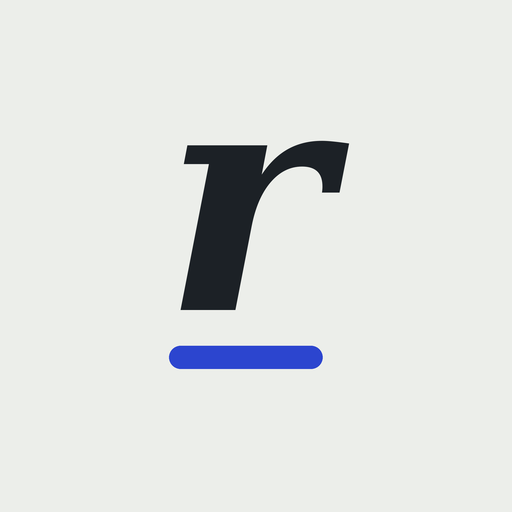
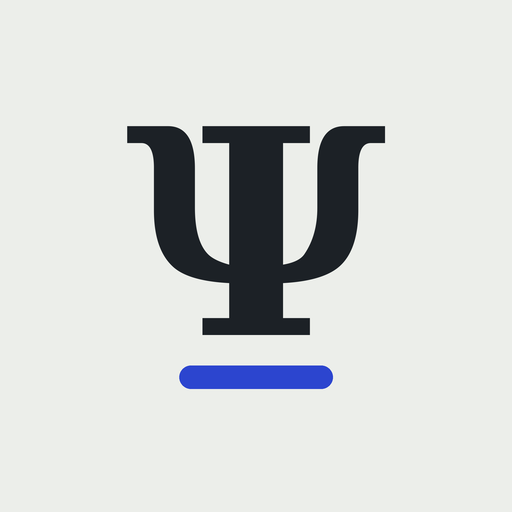
Omdøb til Ψ-reader, ny eksempeltekst og samlet menu
- Navn og ikon: Ψ-reader (Psy-reader)
- Eksempelteksten er skrevet om med Stroop-effekten, den indre stemme
  og tungebrækkere, hjernens forudsigelser (N400) og hvordan en
  sprogmodel læser
- Opvarmning, Historik, Om teknikkerne, Træningsprogram og Credits
  ligger nu i én menu i hjørnet
- Skærmen holdes tændt, mens teksten kører

Claude-Session: https://claude.ai/code/session_01LqUsJRtFhCraftrXDoyALx

Changed region(s): [[0.25, 0.2188, 0.75, 0.7812]]

diff --git a/index.html b/index.html
@@ -1,6 +1,6 @@
 <!doctype html>
 <!--
-  reader – træn hurtiglæsning
+  Ψ-reader (Psy-reader) – træn hurtiglæsning
   Lavet af DAKI2501 og Claude (Anthropic), 2026.
   Freeware: må bruges, kopieres og deles gratis.
   Indeholder pdf.js © Mozilla Foundation, Apache License 2.0 (licensnoten står i pdf.js-koden længere nede).
@@ -16,8 +16,11 @@
 <link rel="apple-touch-icon" href="icons/apple-touch-icon.png">
 <meta name="apple-mobile-web-app-capable" content="yes">
 <meta name="mobile-web-app-capable" content="yes">
-<meta name="apple-mobile-web-app-title" content="reader">
-<title>reader – træn hurtiglæsning</title>
+<meta name="apple-mobile-web-app-title" content="Ψ-reader">
+<meta name="description" content="Psy-reader: træn hurtiglæsning og stream lange tekster. Pacer, fikspunkter, RSVP, jævn rulning, nøgleord, PDF og EPUB. Gratis.">
+<meta property="og:title" content="Ψ-reader – træn hurtiglæsning">
+<meta property="og:description" content="Gratis studieredskab til hurtiglæsning. Læser tekst, PDF og EPUB, også på telefonen.">
+<title>Ψ-reader – træn hurtiglæsning</title>
 <style>
 :root{
   --paper:#ECEEEA; --ink:#1C2126; --muted:#66706B; --faint:#A7AEA9; --rule:#D2D7D1; --panel:#F5F6F3;
@@ -68,7 +71,11 @@ body[data-view=start] #reader,body[data-view=reader] #start{display:none}
 .mark{font:italic 600 23px/1 var(--serif);position:relative;padding-bottom:7px;letter-spacing:.005em}
 .mark::after{content:"";position:absolute;left:.05em;bottom:0;height:3px;width:1.7em;border-radius:2px;background:var(--accent);animation:pen 2.4s cubic-bezier(.5,0,.3,1) .3s 1 both}
 @keyframes pen{from{width:0}to{width:1.7em}}
-.top nav{margin-left:auto;display:flex;gap:4px}
+.menuwrap{margin-left:auto;position:relative}
+.menu{position:absolute;right:0;top:42px;z-index:10;min-width:210px;padding:6px;display:flex;flex-direction:column;background:var(--panel);border-radius:12px;box-shadow:0 18px 50px -18px rgba(0,0,0,.4),0 0 0 1px var(--rule)}
+.menu button{border:0;background:transparent;text-align:left;padding:10px 12px;border-radius:8px;font-size:15px}
+.menu button:hover{background:var(--accent-soft)}
+.menu button:disabled{opacity:.4;cursor:default}
 .intake{width:100%;max-width:860px;margin-top:8vh}
 .intake h1{font:500 clamp(30px,4.4vw,46px)/1.08 var(--serif);margin:0 0 10px;letter-spacing:-.012em}
 .intake .sub{color:var(--muted);margin:0 0 22px;font-size:16px;max-width:52ch}
@@ -285,8 +292,6 @@ dialog::backdrop{background:rgba(18,22,26,.38)}
 .sch-dot{position:absolute;left:50%;top:50%;width:8px;height:8px;margin:-4px;border-radius:50%;background:var(--accent);pointer-events:none;box-shadow:0 0 0 3px var(--panel)}
 
 @media (max-width:560px){
-  .top{flex-wrap:wrap}
-  .top nav{margin-left:-10px;width:100%}
   .intake{margin-top:4vh}
 }
 .toc{list-style:none;margin:10px 0 0;padding:0;max-height:52vh;overflow:auto;border-top:1px solid var(--rule)}
@@ -344,15 +349,20 @@ button,#stage,#rsvp,.progress{touch-action:manipulation}
 <!-- ================= START ================= -->
 <main id="start">
   <header class="top">
-    <div class="mark">reader</div>
-    <nav>
-      <button class="textbtn" data-open="dlgSchulte">Opvarmning</button>
-      <button class="textbtn" data-open="dlgHistory">Historik</button>
-      <button class="textbtn" data-open="dlgHelp">Om teknikkerne</button>
-    </nav>
+    <div class="mark">Ψ-reader</div>
+    <div class="menuwrap">
+      <button class="icon" id="menuBtn" aria-haspopup="true" aria-expanded="false" aria-controls="menu" aria-label="Menu" title="Menu"><svg viewBox="0 0 24 24" width="20" height="20" aria-hidden="true"><path d="M5 7h14M5 12h14M5 17h14" fill="none" stroke="currentColor" stroke-width="1.8" stroke-linecap="round"/></svg></button>
+      <div class="menu" id="menu" hidden>
+        <button id="goProgram" title="Seks trin på ca. 11 minutter: mål din hastighed, træn med pacer og indrykning i højt tempo, og mål igen.">Træningsprogram</button>
+        <button data-open="dlgSchulte">Opvarmning</button>
+        <button data-open="dlgHistory">Historik</button>
+        <button data-open="dlgHelp">Om teknikkerne</button>
+        <button data-open="dlgCredits">Credits</button>
+      </div>
+    </div>
   </header>
 
-  <div class="nojs" id="nojs">Denne visning kører ikke JavaScript, så reader kan ikke starte. Det sker typisk, når en HTML-fil åbnes i telefonens filvisning eller i en forhåndsvisning. Åbn filen i en browser som Safari, Chrome eller Firefox i stedet.</div>
+  <div class="nojs" id="nojs">Denne visning kører ikke JavaScript, så Ψ-reader kan ikke starte. Det sker typisk, når en HTML-fil åbnes i telefonens filvisning eller i en forhåndsvisning. Åbn filen i en browser som Safari, Chrome eller Firefox i stedet.</div>
 
   <section class="intake">
     <h1>Hvad vil du læse?</h1>
@@ -378,10 +388,6 @@ button,#stage,#rsvp,.progress{touch-action:manipulation}
     </div>
   </section>
 
-  <footer class="foot">
-    <button class="textbtn" id="goProgram" title="Seks trin på ca. 11 minutter: mål din hastighed, træn med pacer og indrykning i højt tempo, og mål igen. Bygget over Tim Ferriss' PX-protokol.">Træningsprogram</button>
-    <button class="textbtn" data-open="dlgCredits">Credits</button>
-  </footer>
 </main>
 
 <!-- ================= READER ================= -->
@@ -641,7 +647,7 @@ button,#stage,#rsvp,.progress{touch-action:manipulation}
 <dialog id="dlgCredits">
   <div class="dlg">
     <h2>Credits</h2>
-    <p><b>reader</b> er lavet af DAKI2501 og Claude, 2026.</p>
+    <p><b>Ψ-reader</b> (Psy-reader) er lavet af DAKI2501 og Claude, 2026.</p>
     <p>Freeware: må bruges, kopieres og deles gratis.</p>
     <p class="muted" style="font-size:14px">PDF-læsning med pdf.js fra Mozilla (Apache 2.0-licens). Ordbogsopslag via Free Dictionary API med data fra Wiktionary (CC BY-SA). Kilderne til eksempelteksten står under Om teknikkerne.</p>
     <p class="muted" style="font-size:14px">Hent filen eller se koden: <a href="https://github.com/DAKI2501/reader" target="_blank" rel="noopener">github.com/DAKI2501/reader</a></p>
@@ -740,6 +746,11 @@ button,#stage,#rsvp,.progress{touch-action:manipulation}
       <li>Dehaene, S. m.fl. (2010). How learning to read changes the cortical networks for vision and language. <i>Science, 330</i>, 1359–1364. <a href="https://doi.org/10.1126/science.1194140" target="_blank" rel="noopener">doi.org/10.1126/science.1194140</a></li>
       <li>Seymour, P. H. K., Aro, M. &amp; Erskine, J. M. (2003). Foundation literacy acquisition in European orthographies. <i>British Journal of Psychology, 94</i>, 143–174. <a href="https://doi.org/10.1348/000712603321661859" target="_blank" rel="noopener">doi.org/10.1348/000712603321661859</a></li>
       <li>Brysbaert, M., Stevens, M., Mandera, P. &amp; Keuleers, E. (2016). How many words do we know? <i>Frontiers in Psychology, 7</i>, 1116. <a href="https://doi.org/10.3389/fpsyg.2016.01116" target="_blank" rel="noopener">doi.org/10.3389/fpsyg.2016.01116</a></li>
+      <li>Stroop, J. R. (1935). Studies of interference in serial verbal reactions. <i>Journal of Experimental Psychology, 18</i>, 643–662. <a href="https://doi.org/10.1037/h0054651" target="_blank" rel="noopener">doi.org/10.1037/h0054651</a></li>
+      <li>McCutchen, D. &amp; Perfetti, C. A. (1982). The visual tongue-twister effect: Phonological activation in silent reading. <i>Journal of Verbal Learning and Verbal Behavior, 21</i>, 672–687.</li>
+      <li>Kutas, M. &amp; Hillyard, S. A. (1980). Reading senseless sentences: Brain potentials reflect semantic incongruity. <i>Science, 207</i>, 203–205. <a href="https://doi.org/10.1126/science.7350657" target="_blank" rel="noopener">doi.org/10.1126/science.7350657</a></li>
+      <li>Smith, N. J. &amp; Levy, R. (2013). The effect of word predictability on reading time is logarithmic. <i>Cognition, 128</i>, 302–319. <a href="https://doi.org/10.1016/j.cognition.2013.02.013" target="_blank" rel="noopener">doi.org/10.1016/j.cognition.2013.02.013</a></li>
+      <li>Vaswani, A. m.fl. (2017). Attention is all you need. <a href="https://arxiv.org/abs/1706.03762" target="_blank" rel="noopener">arxiv.org/abs/1706.03762</a></li>
       <li>Saenger, P. (1997). <i>Space Between Words: The Origins of Silent Reading</i>. Stanford University Press.</li>
       <li>Den Store Danske: Retskrivningsreformen i 1948. <a href="https://lex.dk/retskrivningsreformen_i_1948" target="_blank" rel="noopener">lex.dk</a></li>
     </ul>
@@ -1815,6 +1826,11 @@ function showRsvp(u) {
 }
 
 /* ================= session ================= */
+let wake = null;
+async function wakeOn() {
+  try { if ('wakeLock' in navigator && !wake) { wake = await navigator.wakeLock.request('screen'); wake.addEventListener('release', () => { wake = null; }); } } catch (e) {}
+}
+function wakeOff() { if (wake) { try { wake.release().catch(() => {}); } catch (e) {} wake = null; } }
 function newSession() {
   S.session = { startPos: S.pos, playMs: 0, words: 0, wpmMs: 0, limit: cfg('timer') * 60000, mode: cfg('mode'), compressed: !!S.map, origStart: origPos(S.pos) };
 }
@@ -1824,6 +1840,7 @@ function play() {
   if (!S.unit) setUnit();
   hideDefPop(); hideLookChip();
   S.playing = true; S.last = performance.now(); S.sy = null;
+  wakeOn();
   document.body.classList.add('playing');
   if (cfg('mode') === 'free') scrollToPos(false);
   idleKick();
@@ -1832,6 +1849,7 @@ function play() {
 function pause() {
   if (!S.playing) return;
   S.playing = false;
+  wakeOff();
   document.body.classList.remove('playing', 'idle');
   E.bar.classList.remove('quiet');
   resetSmooth();
@@ -1863,6 +1881,7 @@ function finish(reason) {
   const ses = S.session;
   if (!ses) return;
   S.playing = false;
+  wakeOff();
   document.body.classList.remove('playing', 'idle');
   E.bar.classList.remove('quiet');
   resetSmooth();
@@ -2440,7 +2459,9 @@ E.dlgSchulte.addEventListener('close', () => cancelAnimationFrame(sch.raf));
 /* ================= sample text ================= */
 const SAMPLE = `Øjne, bogstaver og det mærkelige ved at læse
 
-Lige nu gør du noget, som intet andet dyr kan, og som din hjerne aldrig er blevet bygget til. Skrift er kun omkring 5.000 år gammel. Det er et øjeblik i evolutionens tid, alt for kort til, at der kan være opstået et særligt læseorgan i hjernen. Alligevel omsætter du i dette sekund små sorte kruseduller til stemmer, billeder og tanker, så hurtigt og så automatisk, at du ikke kan lade være. Prøv at kigge på et ord uden at læse det. Det kan ikke lade sig gøre.
+Lige nu gør du noget, som intet andet dyr kan, og som din hjerne aldrig er blevet bygget til. Skrift er kun omkring 5.000 år gammel. Det er et øjeblik i evolutionens tid, alt for kort til, at der kan være opstået et særligt læseorgan i hjernen. Alligevel omsætter du i dette sekund små sorte kruseduller til stemmer, billeder og tanker, så hurtigt og så automatisk, at du ikke kan lade være.
+
+Det sidste kan man måle. I 1935 bad psykologen John Ridley Stroop folk om at sige, hvilken farve en række ord var trykt med. Når ordet RØD var trykt med blåt blæk, gik det langsommere, og folk lavede flere fejl. De kunne ikke lade være med at læse ordet, selv om opgaven kun handlede om farven. Stroop-effekten er siden blevet et af psykologiens mest gentagne fund: Hos en øvet læser er læsning ikke noget, man beslutter sig for. Det sker bare.
 
 Øjnene hopper
 
@@ -2450,39 +2471,61 @@ Det mærkelige er, at du aldrig ser dine egne spring. Under en saccade dæmper h
 
 Det skarpe syn dækker kun et lille område midt på nethinden, synsgruben. Strakt ud i armslængde svarer det nogenlunde til din tommelfingernegl. Alt uden for det er sløret, og alligevel oplever du verden som skarp og stabil. Det er en konstruktion. Hjernen syr de små skarpe udsnit sammen til et billede, der føles komplet. Hvert øje har endda en blind plet, hvor synsnerven forlader nethinden, og hvor der slet ingen synsceller er. Du har aldrig lagt mærke til den, fordi hjernen fylder hullet ud med et kvalificeret gæt.
 
-Øjnene er heller aldrig helt i ro. Selv når du stirrer stift på et punkt, ryster de i bittesmå bevægelser. Forskere har fundet måder at holde et billede helt stille på nethinden, så det følger med alle øjets bevægelser. Så falmer billedet bort og forsvinder. Synet er bygget til forandring, ikke til stilstand.
-
 Det, du ikke ser, når du læser
 
-Til højre for det punkt, du fikserer på, kan du typisk opfatte fjorten til femten bogstaver, til venstre kun tre til fire. Feltet er skævt, fordi opmærksomheden løber foran i læseretningen. Hos læsere af hebraisk, der læses fra højre mod venstre, vender skævheden den anden vej. Resten af linjen er sløret, men ikke uden betydning: Hjernen bruger den uskarpe forhåndsvisning til at planlægge, hvor næste ryk skal lande.
+Til højre for det punkt, du fikserer på, kan du typisk opfatte fjorten til femten bogstaver, til venstre kun tre til fire. Feltet er skævt, fordi opmærksomheden løber foran i læseretningen. Hos læsere af hebraisk, der læses fra højre mod venstre, vender skævheden den anden vej.
 
 Det ved vi blandt andet fra nogle snedige forsøg fra 1970'erne. Forskerne målte præcist, hvor læseren kiggede, og erstattede alle bogstaver uden for et lille vindue omkring blikket med x'er. Vinduet flyttede sig med øjnene, så teksten altid så normal ud lige der, hvor læseren kiggede. Når vinduet var stort nok, læste folk med normal hastighed, og mange opdagede ikke engang, at resten af linjen var fyldt med x'er. Det, du oplever som en hel side tekst, er i virkeligheden en række små, skarpe kighuller.
 
-Du læser heller ikke alle ord. Korte, hyppige småord springes ofte helt over, fordi hjernen allerede har gættet dem ud fra forhåndsvisningen og sammenhængen. Ind imellem springer øjnene også tilbage. Det kaldes regressioner, og de udgør omkring hver tiende øjenbevægelse hos en øvet læser. Mange hurtiglæsningskurser kalder dem spild, men forskningen peger på, at de ofte opstår, når forståelsen halter, og at de hjælper dig med at rette op.
+Du læser heller ikke alle ord. Korte, hyppige småord springes ofte helt over, fordi hjernen allerede har gættet dem. Ind imellem springer øjnene også tilbage. Det kaldes regressioner, og de udgør omkring hver tiende øjenbevægelse hos en øvet læser. Mange hurtiglæsningskurser kalder dem spild, men forskningen peger på, at de ofte opstår, når forståelsen halter, og at de hjælper dig med at rette op.
 
 Bogstaver i rod
 
-Måske har du set beskeden, der gik verden rundt på internettet: Ifølge forskning fra Cambridge betyder det ikke noget, hvilken rækkefølge bogstaverne står i, bare det første og det sidste bogstav er på plads. Der lå aldrig nogen sådan undersøgelse fra Cambridge bag. Men en rigtig undersøgelse kom senere, fra University of Massachusetts i 2006. Den viste, at man godt kan læse tekst med byttede bogstaver, men at det koster. Byttes bogstaver inde i ordene, falder læsehastigheden med omkring 11 procent. Byttes de sidste bogstaver, falder den med 26 procent, og byttes de første, med 36 procent. Ordets begyndelse er altså det vigtigste, og det passer med, at blikket helst lander lidt til venstre for ordets midte.
+Måske har du set beskeden, der gik verden rundt på internettet: Ifølge forskning fra Cambridge betyder det ikke noget, hvilken rækkefølge bogstaverne står i, bare det første og det sidste bogstav er på plads. Der lå aldrig nogen sådan undersøgelse fra Cambridge bag. Men en rigtig undersøgelse kom senere, fra University of Massachusetts i 2006. Den viste, at man godt kan læse tekst med byttede bogstaver, men at det koster. Byttes bogstaver inde i ordene, falder læsehastigheden med omkring 11 procent. Byttes de sidste bogstaver, falder den med 26 procent, og byttes de første, med 36 procent. Ordets begyndelse er altså det vigtigste.
 
 Et andet mærkeligt fund er, at et bogstav er lettere at genkende, når det står i et ord, end når det står alene. Allerede i 1969 viste forsøg, at folk lettere kunne afgøre, om de havde set et D eller et K, når bogstavet blinkede kort op som slutningen på et ord som WORD eller WORK, end når det blinkede op helt alene. Ordet hjælper bogstavet, ikke kun omvendt. Læsning er ikke bogstavering i høj fart. Det er mønstergenkendelse på flere niveauer på én gang.
+
+Stemmen i hovedet
+
+Læs den her sætning helt stille, kun med øjnene: Fem flade flødeboller på et fladt flødebollefad. Og den her: Bispens gipsgebis. Stativ, stakit, kasket.
+
+Mærkede du, at det gik en anelse langsommere, selv om du ikke sagde en lyd? Det er ikke indbildning. I 1982 viste psykologerne Deborah McCutchen og Charles Perfetti, at folk er længere tid om at læse sætninger stille, når mange af ordene begynder med de samme lyde. Tungen snubler altså, selv når den ligger helt stille. Effekten er siden fundet hos kinesiske læsere, hvis skrifttegn ikke er bygget af lyde, og hos læsere, der er født døve.
+
+Det fortæller noget vigtigt: Når du læser, bliver ordenes lyd vakt til live i hjernen, også når du er tavs. Den indre stemme er ikke en dårlig vane fra første klasse. Den holder ordene fast i arbejdshukommelsen længe nok til, at sætningen kan samles til mening. Derfor falder forståelsen, når man prøver at slukke for den.
+
+Skriften kan til gengæld noget, stemmen ikke kan. Ordet angstskrig læser du på et øjeblik, selv om seks konsonantlyde står i kø midt i ordet. Og prøv den her: Hvem ved, hvad hver hvid hval vil? På papiret står der fem h'er, som ingen dansker udtaler. Øjet ser forskel på vejr, hver, vær og værd. Øret gør næsten ikke.
+
+Hjernen gætter forud
+
+Læs den her sætning: Han smurte det varme brød med smør og sokker.
+
+Ved det sidste ord skete der noget i din hjerne. I 1980 målte Marta Kutas og Steven Hillyard hjernens elektriske aktivitet, mens folk læste sætninger, der sluttede med et ord, som ikke gav mening. Omkring 400 millisekunder efter det uventede ord kom der et tydeligt udsving, som de kaldte N400. Det kommer hver gang, et ord bryder med det, hjernen havde regnet med, og det er større, jo mere uventet ordet er.
+
+Du læser altså ikke ét ord ad gangen og venter på det næste. Du gætter hele tiden forud. Forudsigelige ord læses hurtigere eller springes helt over, og uventede ord får længere fiksationer. Sommetider må gættet laves om. I sætningen »Hun så manden med kikkerten« vælger du lynhurtigt, hvem der har kikkerten, og du opdager først valget, hvis næste sætning viser, at det var forkert.
+
+Sådan læser en sprogmodel
+
+Der er kommet en ny slags læser i verden, og den læser helt anderledes end dig. En sprogmodel har ingen øjne, ingen synsgrube og ingen saccader. Teksten bliver først hakket i små stykker, kaldet tokens. Et almindeligt ord kan være ét token, mens et langt eller sjældent ord bliver til flere stumper. Hvert token laves om til en lang række tal.
+
+Derefter sker det, der adskiller modellen mest fra dig: Den ser på alle stykkerne på én gang. Hvor dit blik må hoppe hen ad linjen, vejer modellen hvert token mod alle de andre i teksten samtidig og finder ud af, hvilke der hører sammen. Mekanismen hedder opmærksomhed, attention, og blev beskrevet i 2017 i en artikel med den selvsikre titel Attention Is All You Need. Modellen har ingen indre stemme og ingen tunge, der kan snuble. Den ved, at Bispens gipsgebis er en tungebrækker, fordi den har læst om det, ikke fordi den mærker det.
+
+Og alligevel ligner den dig på et afgørende punkt. En sprogmodel er trænet på én opgave, gentaget et ufatteligt antal gange: at gætte, hvad der kommer som det næste. Præcis som din hjerne gør, når du læser. Ligheden er så stor, at læseforskere bruger sprogmodeller som måleinstrument. Jo mere overrasket en model bliver over et ord, jo længere tid bruger mennesker på at læse det. En undersøgelse fra 2013 fandt, at sammenhængen holder over et enormt spænd, fra de mest forventede ord til de næsten umulige.
+
+Denne tekst er i øvrigt skrevet af et menneske og en sprogmodel i fællesskab. Den ene af os har aldrig set et bogstav.
 
 Hjernen låner plads
 
 Hvis der ikke er noget læseorgan, hvordan kan vi så læse? Den franske neuroforsker Stanislas Dehaene har foreslået, at læsning genbruger hjerneområder, der oprindeligt udviklede sig til at genkende ting og ansigter. Hos læsere i alle de kulturer, der er undersøgt, aktiveres et lille område i venstre hjernehalvdel, når de ser skrevne ord, og det sker næsten samme sted, uanset om skriften er dansk, kinesisk eller hebraisk.
 
-I et forsøg fra 2010 skannede Dehaene og kolleger hjernen hos 63 voksne: ti, der aldrig havde lært at læse, 22, der først lærte det som voksne, og 31, der lærte det som børn. Jo bedre folk læste, jo kraftigere reagerede området i venstre hjernehalvdel på skrift. Samtidig fandt de tegn på en lille konkurrence med ansigtsgenkendelsen på samme sted. Det mest opmuntrende fund var, at de fleste forandringer også viste sig hos dem, der først lærte at læse som voksne. Hjernen kan altså omorganisere sig hele livet.
+I et forsøg fra 2010 skannede Dehaene og kolleger hjernen hos 63 voksne: ti, der aldrig havde lært at læse, 22, der først lærte det som voksne, og 31, der lærte det som børn. Jo bedre folk læste, jo kraftigere reagerede området på skrift. Samtidig fandt de tegn på en lille konkurrence med ansigtsgenkendelsen på samme sted. Det mest opmuntrende fund var, at de fleste forandringer også viste sig hos dem, der først lærte at læse som voksne. Hjernen kan omorganisere sig hele livet.
 
-Genbruget kan også forklare en ting, mange forældre har undret sig over: hvorfor børn skriver spejlvendte bogstaver. Vores synssystem er bygget til at se en ting som den samme, uanset om den vender mod venstre eller højre. En tiger er lige farlig fra begge sider. Men i skrift er b og d forskellige bogstaver, og det samme gælder p og q. Når man lærer at læse, skal hjernen aflære en ældgammel evne for netop de tegn.
-
-Læsning er også hårdt arbejde. Når du tænker koncentreret, for eksempel når en sætning er svær, udvider dine pupiller sig en smule. Psykologer har brugt det i årtier som et mål for mental anstrengelse.
+Genbruget kan også forklare, hvorfor børn skriver spejlvendte bogstaver. Vores synssystem er bygget til at se en ting som den samme, uanset om den vender mod venstre eller højre. En tiger er lige farlig fra begge sider. Men i skrift er b og d forskellige bogstaver, og det samme gælder p og q. Når man lærer at læse, skal hjernen aflære en ældgammel evne for netop de tegn.
 
 Fra okse til A
 
 Skriften er opfundet mindst tre gange uafhængigt af hinanden: i Mesopotamien for godt 5.000 år siden, i Kina og i Mellemamerika. De ældste tekster, vi kender fra Mesopotamien, er ikke digte eller love. Det er regnskaber over korn, øl og får. Skriften begyndte som bogføring.
 
-Alfabetet har en historie, der næsten er for god til at være sand. For omkring 3.800 år siden arbejdede semitisk-talende folk i egyptisk tjeneste, blandt andet i turkisminerne på Sinaihalvøen. De var omgivet af egyptiske hieroglyffer, et system med hundredvis af tegn, som det tog skrivere mange år at lære. De fik en genial idé: De tog nogle få billeder og lod hvert af dem stå for den første lyd i deres eget ord for tingen. Et oksehoved, på deres sprog alp, kom til at stå for lyden i begyndelsen af ordet. Et hus, bayt, blev til b. Fra de enkle tegn udviklede sig det fønikiske alfabet, siden det græske, der tilføjede vokaler, og så det latinske, som du læser lige nu. Vend et stort A på hovedet, og se efter: Du kan stadig ane et oksehoved med to horn.
-
-Ikke alle skrifter har givet deres hemmeligheder fra sig. Linear A fra Kreta og rongorongo fra Påskeøen er stadig ikke tydet. Og i det tidlige Grækenland skrev man nogle gange skiftevis fra venstre mod højre og fra højre mod venstre, linje for linje, som en okse der pløjer en mark. Man kaldte det boustrophedon, »som oksen vender«.
+Alfabetet har en historie, der næsten er for god til at være sand. For omkring 3.800 år siden arbejdede semitisk-talende folk i egyptisk tjeneste, blandt andet i turkisminerne på Sinaihalvøen. De var omgivet af egyptiske hieroglyffer, et system med hundredvis af tegn, som det tog skrivere mange år at lære. De fik en genial idé: De tog nogle få billeder og lod hvert af dem stå for den første lyd i deres eget ord for tingen. Et oksehoved, på deres sprog alp, kom til at stå for lyden i begyndelsen af ordet. Et hus, bayt, blev til b. Fra de enkle tegn udviklede sig det fønikiske alfabet, siden det græske, der tilføjede vokaler, og så det latinske, som du læser lige nu. Vend et stort A på hovedet, og se efter: Du kan stadig ane et oksehoved med to horn. Det græske bogstav psi, Ψ, kom til senere og blev mange århundreder efter psykologiens kendetegn, fordi det er første bogstav i psyche, sjæl.
 
 Mellemrummet, en opfindelse
 
@@ -2490,7 +2533,7 @@ Det mest oversete tegn i denne tekst er mellemrummet. Romerne og grækerne skrev
 
 Omkring år 400 beskrev kirkefaderen Augustin, hvordan han så biskop Ambrosius læse: Øjnene gled over siden, men stemmen var stille. Augustin fandt det så påfaldende, at han skrev det ned. Forskere diskuterer i dag, hvor sjælden stillelæsning egentlig var i oldtiden, men historien viser, at læsning engang først og fremmest var noget, man gjorde højt.
 
-Hvor vigtigt mellemrummet er, kan man stadig måle. Når forskere fjerner mellemrummene fra en engelsk tekst, falder læsehastigheden med 40 til 50 procent. Kinesiske og japanske læsere klarer sig derimod fint uden mellemrum, fordi deres skrift er bygget anderledes. Hjernen tilpasser sig det system, den vokser op med.
+Hvor vigtigt mellemrummet er, kan man stadig måle. Når forskere fjerner mellemrummene fra en engelsk tekst, falder læsehastigheden med 40 til 50 procent. Kinesiske og japanske læsere klarer sig derimod fint uden, fordi deres skrift er bygget anderledes. Hjernen tilpasser sig det system, den vokser op med.
 
 Dansk er svært at lære at læse
 
@@ -2498,19 +2541,13 @@ En stor undersøgelse fra 2003 sammenlignede, hvor hurtigt børn lærer grundlæ
 
 Det danske skriftsprog har også ændret sig inden for mange menneskers levetid. Indtil 1948 skrev man alle navneord med stort begyndelsesbogstav, ligesom på tysk, og bolle-å'et fandtes ikke; man skrev aa. Retskrivningsreformen det år afskaffede de store bogstaver og indførte å. Ikke alle var begejstrede. Aalborg gik aldrig over til å, og Aarhus vendte tilbage til dobbelt-a i 2011.
 
-Et ordforråd til et helt liv
-
-Hvor mange ord kender du? Et forskerhold fra Gent anslog i 2016, at en gennemsnitlig 20-årig med engelsk som modersmål kender omkring 42.000 grundord, med et spænd fra omkring 27.000 til 52.000 mellem de laveste og de højeste fem procent. Og vi bliver ved med at lære: Mellem 20 og 60 år lærer man i gennemsnit et nyt ord hver anden dag.
-
-Det hænger direkte sammen med læsehastighed. Jo flere gange du har mødt et ord, jo hurtigere genkender du det, og jo mere du ved om et emne, jo lettere glider teksten. Derfor er den mest pålidelige vej til hurtigere læsning paradoksalt nok den langsomste: at læse meget.
-
 Hvad kan træning så gøre?
 
-En pacer, altså en finger, en pen eller en bevægelig markering på skærmen, giver øjnene et fast punkt at følge. Den holder et jævnt tempo og gør det sværere at falde i staver eller springe tilbage uden grund. Tim Ferriss lod i sit PX-projekt deltagerne træne med en pen under linjen, først for teknikkens skyld og derefter i et tempo langt over det behagelige. Perceptuel udvidelse bygger på samme idé: Du begynder et ord inde, stopper et ord før enden og lader synsfeltets periferi tage sig af margenerne.
+Hvor mange ord kender du? Et forskerhold fra Gent anslog i 2016, at en gennemsnitlig 20-årig med engelsk som modersmål kender omkring 42.000 grundord, og at man mellem 20 og 60 år lærer et nyt ord hver anden dag. Det hænger direkte sammen med læsehastighed. Jo flere gange du har mødt et ord, jo hurtigere genkender du det, og jo mere du ved om et emne, jo bedre gætter du forud. Derfor er den mest pålidelige vej til hurtigere læsning paradoksalt nok den langsomste: at læse meget.
 
-Den grundige gennemgang, som Keith Rayner og kolleger udgav i 2016, konkluderer, at der er en afvejning mellem fart og forståelse. Det er ikke realistisk at fordoble eller tredoble sin hastighed og samtidig forstå lige så meget. Til gengæld kan træning gøre dig bedre til bevidst at skifte gear: at skimme, når du skal have overblik, og at sætte farten ned, når teksten er svær. Brug øvelserne her som træning af rytme og opmærksomhed, og tjek altid, hvad du faktisk husker bagefter.
+Den grundige gennemgang, som Keith Rayner og kolleger udgav i 2016, konkluderer, at der er en afvejning mellem fart og forståelse. Det er ikke realistisk at fordoble eller tredoble sin hastighed og samtidig forstå lige så meget. Til gengæld kan træning gøre dig bedre til bevidst at skifte gear: at skimme, når du skal have overblik, og at sætte farten ned, når teksten er svær. En pacer, altså en finger, en pen eller en markering på skærmen, giver øjnene et fast punkt at følge og holder et jævnt tempo. Brug øvelserne her som træning af rytme og opmærksomhed, og tjek altid, hvad du faktisk husker bagefter.
 
-Næste gang du læser, så læg et øjeblik mærke til det umulige, der sker. Et væsen, hvis hjerne udviklede sig til at spore dyr og genkende ansigter, sidder og omsætter blæk til mening, tre spring i sekundet, uden at se et eneste af springene. Vil du vide mere, er Stanislas Dehaenes bog Reading in the Brain og Paul Saengers Space Between Words gode steder at begynde.`;
+Næste gang du læser, så læg et øjeblik mærke til det umulige, der sker. Et væsen, hvis hjerne udviklede sig til at spore dyr og genkende ansigter, sidder og omsætter blæk til mening, tre spring i sekundet, med en tavs stemme i hovedet og et gæt på næste ord, uden at se et eneste af springene. Vil du vide mere, er Stanislas Dehaenes bog Reading in the Brain og Paul Saengers Space Between Words gode steder at begynde.`;
 
 const SAMPLE_TITLE = 'Øjne, bogstaver og det mærkelige ved at læse';
 const SAMPLE_WORDS = (SAMPLE.match(/\S+/g) || []).length;
@@ -2520,6 +2557,13 @@ E.input.placeholder = SAMPLE;
 if ('serviceWorker' in navigator && (location.protocol === 'https:' || location.hostname === 'localhost')) {
   try { navigator.serviceWorker.register('sw.js').catch(() => {}); } catch (e) {}
 }
+
+E.menuBtn = document.getElementById('menuBtn'); E.menu = document.getElementById('menu');
+function setMenu(open) { E.menu.hidden = !open; E.menuBtn.setAttribute('aria-expanded', String(open)); }
+E.menuBtn.addEventListener('click', e => { e.stopPropagation(); setMenu(E.menu.hidden); });
+E.menu.addEventListener('click', () => setMenu(false));
+document.addEventListener('click', e => { if (!E.menu.hidden && !E.menu.contains(e.target)) setMenu(false); });
+document.addEventListener('keydown', e => { if (e.key === 'Escape') setMenu(false); });
 
 /* ================= boot ================= */
 { const h = store.get('history', []).filter(r => r.mode === 'free' || r.mode === 'test'); if (h.length) S.freeWpm = h[h.length - 1].wpm; }

diff --git a/sw.js b/sw.js
@@ -1,7 +1,7 @@
-// reader – service worker: keeps the app on the device so it starts offline.
+// Ψ-reader – service worker: keeps the app on the device so it starts offline.
 // The cached copy is served at once; a fresh copy is fetched in the background
 // and used the next time the app is opened.
-const CACHE = 'reader-v1';
+const CACHE = 'reader-v2';
 const FILES = ['./', './index.html', './manifest.webmanifest', './icons/icon-192.png', './icons/icon-512.png', './icons/icon-maskable-512.png', './icons/apple-touch-icon.png'];
 
 self.addEventListener('install', e => {
@@ -18,6 +18,6 @@ self.addEventListener('fetch', e => {
     const cached = await cache.match(key, { ignoreSearch: true });
     const fresh = fetch(req).then(res => { if (res.ok) cache.put(key, res.clone()); return res; }).catch(() => null);
     if (cached) { e.waitUntil(fresh); return cached; }
-    return (await fresh) || new Response('reader er offline, og siden er ikke gemt endnu.', { status: 503, headers: { 'Content-Type': 'text/plain; charset=utf-8' } });
+    return (await fresh) || new Response('Ψ-reader er offline, og siden er ikke gemt endnu.', { status: 503, headers: { 'Content-Type': 'text/plain; charset=utf-8' } });
   }));
 });

diff --git a/README.md b/README.md
@@ -1,6 +1,6 @@
-# reader – træn hurtiglæsning
+# Ψ-reader (Psy-reader) – træn hurtiglæsning
 
-En hurtiglæsningstræner i én enkelt HTML-fil. Den kører i browseren, også uden internet, og gemmer intet andre steder end på din egen enhed.
+Et studieredskab til hurtiglæsning i én enkelt HTML-fil: træn din læsehastighed, eller stream en lang tekst på telefonen. Den kører i browseren, også uden internet, og gemmer intet andre steder end på din egen enhed.
 
 **Åbn den her:** https://daki2501.github.io/reader/
 
